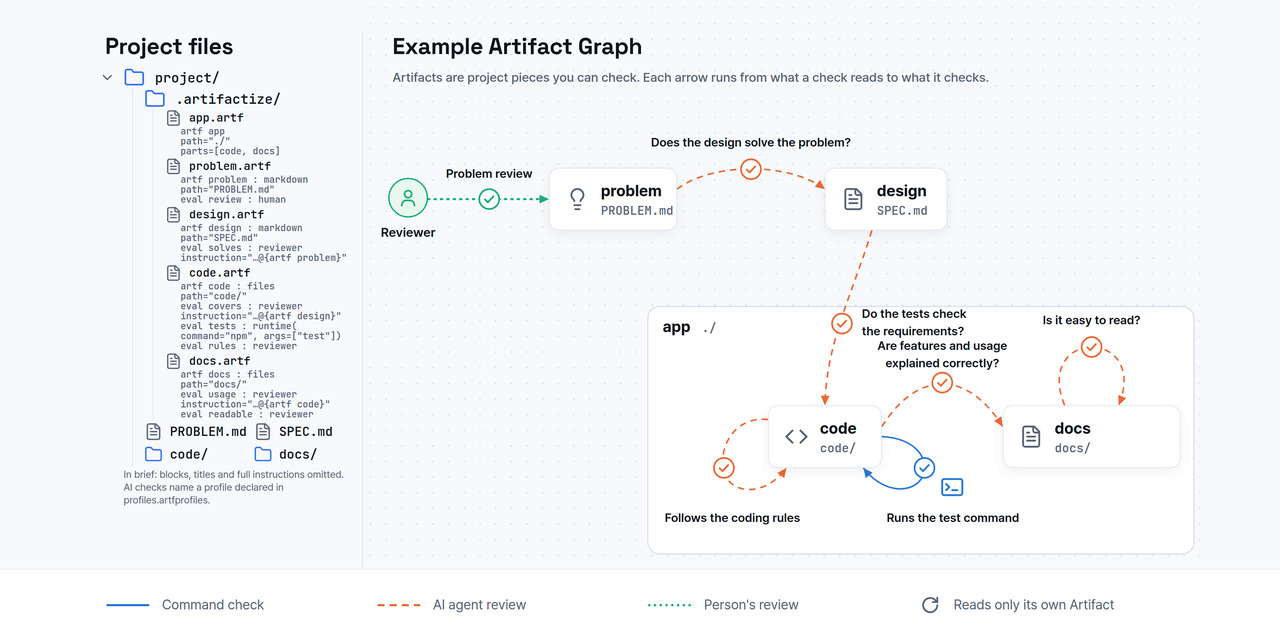
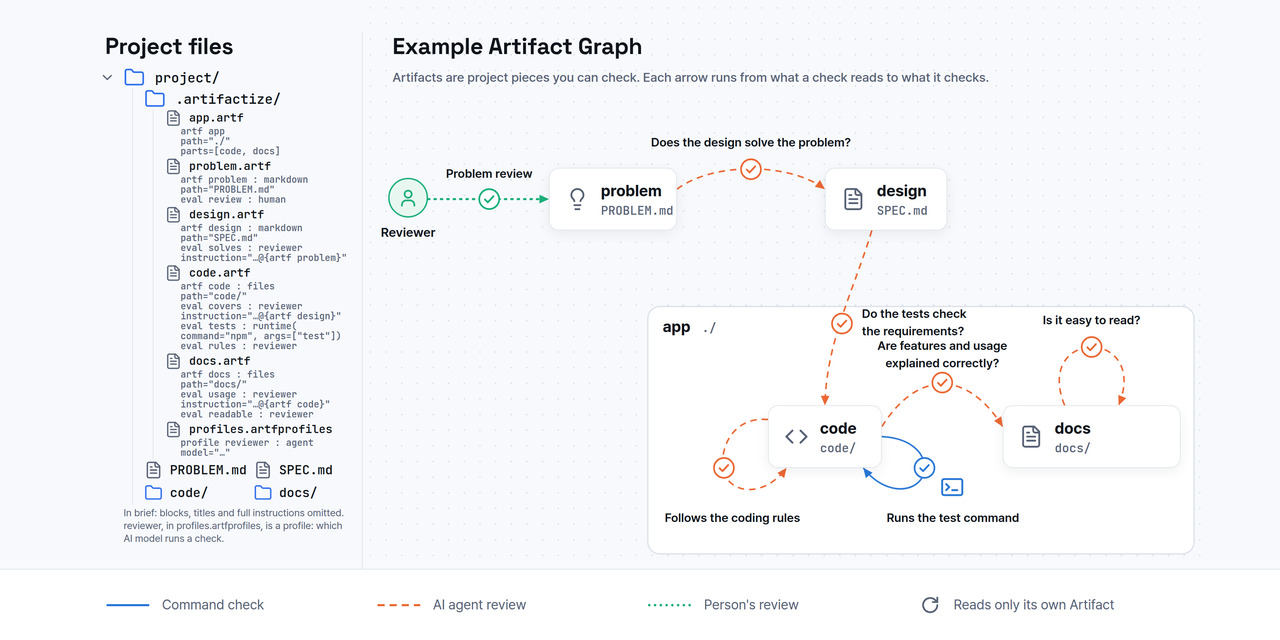
docs(media): the example graph lists profiles.artfprofiles and says what a profile is (#504)
Its AI checks name the profile reviewer, which the project tree did not show and the excerpt named
without explaining. The tree lists profiles.artfprofiles beside the .artf files; the excerpt says a
profile chooses the AI model that runs a check, and Korean wraps between words. The images and the
social cards are rendered again.

Changed region(s): [[0.0938, 0.6562, 0.2812, 0.8438]]

diff --git a/assets/others/graph-example.html b/assets/others/graph-example.html
@@ -98,6 +98,8 @@
   .tree svg { width: 30px; height: 30px; flex: none; }
   /* What the listings leave out, under the tree. */
   .tree .excerpt { margin: 2px 16px 0 26px; color: var(--dim); font: 400 14px/18px var(--sans); }
+  /* Korean breaks between words, never inside one. */
+  :lang(ko) .tree .excerpt { word-break: keep-all; }
   /* The files the definitions name, two to a row. */
   .tree li.source { display: inline-flex; width: 50%; }
   .tree li.source > span { font-size: 18px; gap: 10px; }
@@ -228,6 +230,7 @@
               <li class="definition"><span class="artf"><svg class="file"><use href="#i-file"/></svg>design.artf</span><code>artf design : markdown</code><code>path=&quot;SPEC.md&quot;</code><code>eval solves : reviewer</code><code>instruction=&quot;…@{artf problem}&quot;</code></li>
               <li class="definition"><span class="artf"><svg class="file"><use href="#i-file"/></svg>code.artf</span><code>artf code : files</code><code>path=&quot;code/&quot;</code><code>eval covers : reviewer</code><code>instruction=&quot;…@{artf design}&quot;</code><code>eval tests : runtime(</code><code>command=&quot;npm&quot;, args=[&quot;test&quot;])</code><code>eval rules : reviewer</code></li>
               <li class="definition"><span class="artf"><svg class="file"><use href="#i-file"/></svg>docs.artf</span><code>artf docs : files</code><code>path=&quot;docs/&quot;</code><code>eval usage : reviewer</code><code>instruction=&quot;…@{artf code}&quot;</code><code>eval readable : reviewer</code></li>
+              <li class="definition"><span class="artf"><svg class="file"><use href="#i-file"/></svg>profiles.artfprofiles</span><code>profile reviewer : agent</code><code>model=&quot;…&quot;</code></li>
             </ul>
           </li>
           <li class="source"><span><svg class="file"><use href="#i-file"/></svg>PROBLEM.md</span></li><li class="source"><span><svg class="file"><use href="#i-file"/></svg>SPEC.md</span></li>
@@ -328,7 +331,7 @@
       legendAgent: "AI agent review",
       legendHuman: "Person's review",
       legendSelf: "Reads only its own Artifact",
-      excerpt: "In brief: blocks, titles and full instructions omitted. AI checks name a profile declared in profiles.artfprofiles.",
+      excerpt: "In brief: blocks, titles and full instructions omitted. reviewer, in profiles.artfprofiles, is a profile: which AI model runs a check.",
     },
     ko: {
       repository: "프로젝트 파일",
@@ -350,7 +353,7 @@
       legendAgent: "AI 에이전트 검토",
       legendHuman: "사람이 검토",
       legendSelf: "자기 Artifact만 읽는 평가",
-      excerpt: "발췌라서 블록, 평가 제목, 지시 전문은 뺐습니다. AI 평가는 profiles.artfprofiles에 선언한 profile 이름을 씁니다.",
+      excerpt: "발췌라서 블록, 평가 제목, 지시 전문은 뺐습니다. profiles.artfprofiles의 reviewer는 AI 평가를 어떤 모델로 돌릴지 정하는 profile입니다.",
     },
     zh: {
       repository: "项目文件",
@@ -372,7 +375,7 @@
       legendAgent: "AI 智能体审查",
       legendHuman: "人工审查",
       legendSelf: "只读取自身 Artifact 的评估",
-      excerpt: "节选省略了代码块、每项检查的标题和完整指令。AI 检查使用在 profiles.artfprofiles 中声明的配置名。",
+      excerpt: "节选省略了代码块、每项检查的标题和完整指令。profiles.artfprofiles 中的 reviewer 是一个配置（profile），规定 AI 检查用哪个模型运行。",
     },
   };
 
